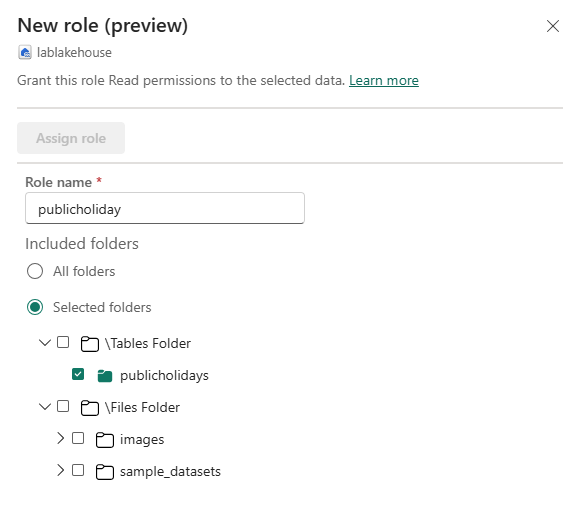
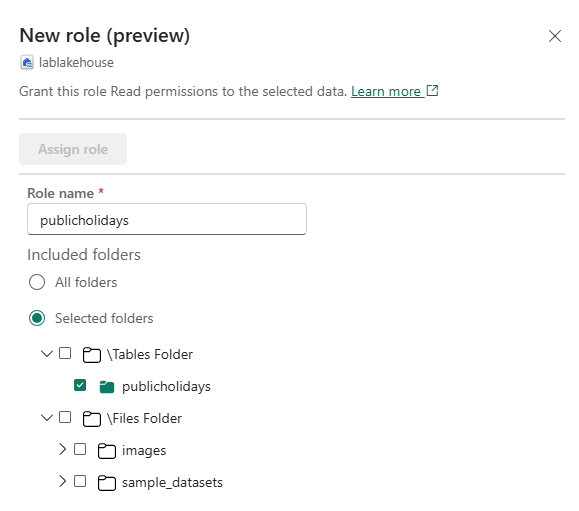
Updates

Changed region(s): [[0.0296, 0.2642, 0.9757, 0.9687], [0.0296, 0.0294, 0.9757, 0.2348], [0.9461, 0.0294, 0.9757, 0.0881]]

diff --git a/Instructions/Labs/19-secure-data-access.md b/Instructions/Labs/19-secure-data-access.md
@@ -110,7 +110,7 @@ Item permissions control access to individual Fabric items within a workspace, l
 
 ## Apply OneLake data access roles in a Lakehouse
 
-OneLake data access roles let you create custom roles within a Lakehouse and grant read permissions to folders you specify.  
+OneLake data access roles let you create custom roles within a Lakehouse and grant read permissions to folders you specify. This is currently a Preview feature.
 
 In this exercise, you will assign an item permission and create a OneLake data access role and experiment with how they work together to restrict access to data in a Lakehouse.  
 
@@ -127,7 +127,7 @@ In this exercise, you will assign an item permission and create a OneLake data a
 
       ![Screenshot of the grant access lakehouse window in Fabric.](./Images/grant-people-access-window.png)
 
-8. Select **Grant**.  Note that the second user now has read permissions on the lakehouse. Read permission only allows the user to see metadata for the lakehouse but not the underlying data.  Next we'll confirm this. 
+8. Select **Grant**.  Note that the second user now has read permissions on the lakehouse. Read permission only allows the user to see metadata for the lakehouse but not the underlying data.  Next we'll validate this.
 9. Return to the browser where you're logged in as the second user. Refresh the browser.
 10. Select **OneLake data hub** in the left navigation pane.  
 11. Select the lakehouse to open it. 
@@ -140,20 +140,21 @@ In this exercise, you will assign an item permission and create a OneLake data a
 
       ![Screenshot of the Manage OneLake data access (preview) feature on the menu bar in Fabric.](./Images/manage-onelake-roles.png)
 
-14. Select new role on the **Manage OneLake data access (preview) screen that appears.
+14. Select new role on the **Manage OneLake data access (preview)** screen that appears.
   
       ![Screenshot of the new role functionality in the manage OneLake data access feature.](./Images/create-onelake-role.png)
 
-15. Create a new role called **publicholiday** that can only access the publicholidays folder as shown in the screenshot below.
+15. Create a new role called **publicholidays** that can only access the publicholidays folder as shown in the screenshot below.
 
       ![Screenshot of the folder assignment in the manage OneLake data access feature.](./Images/new-data-access-role.png)
 
-16. When the role finishes creating, select **Assign role** and assign the role to your second user and select **Save**.
+16. When the role finishes creating, select **Assign role** and assign the role to your second user, click **Add** and select **Save**.
  
        ![Screenshot of the folder assignment in the manage OneLake data access feature.](./Images/assign-role.png)
- 
-17. Select the **publicholidays** table and wait for the data to load.
-18. Note that the user doesn't have access to any other data in the lakehouse because they were assigned to the custom role that permits them to see only data in the publicholidays table, not any of the files or folders.
+
+17. Return to the browser where you're logged in as the second user. Ensure you're still on the page where the lakehouse is open. Refresh the browser.  
+18. Select the **publicholidays** table and wait for the data to load.
+19. Note that the user doesn't have access to any other data in the lakehouse because they were assigned to the custom OneLake data access role that permits them to see only data in the publicholidays table, not data in any of the other tables, files or folders.
 
        ![Screenshot of the what the OneLake data access role allows the user to see.](./Images/custom-role-view.png)
 
